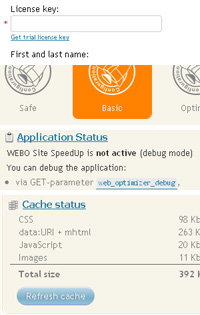
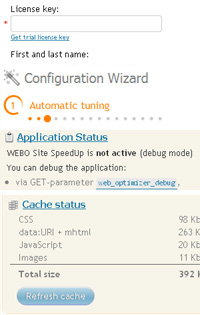
Updated splash-screen blocks for Configuration Wizard

Changed region(s): [[0.0, 0.2, 0.81, 0.4], [0.84, 0.2, 1.0, 0.3714]]

diff --git a/libs/php/lang/ru.php b/libs/php/lang/ru.php
@@ -902,11 +902,8 @@ define('_WEBO_HELP_CLOSE', 'Закрыть');
 define('_WEBO_HELP_FIRSTTIME', 'Используете приложение впервые?');
 define('_WEBO_HELP_LICENSEKEY', 'На странице');
 define('_WEBO_HELP_LICENSEKEY2', 'зарегистрируйте ваш лицензионный ключ или получите SaaS-ключ, открывающий все возможности Полной версии WEBO Site SpeedUp. Вы можете пропустить этот шаг, если хотите использовать некоммерческую версию WEBO Site SpeedUp.');
-define('_WEBO_HELP_TUNING', 'Подберите наиболее эффективную конфигурацию для вашего сайта или создайте собственную конфигурацию на странице');
-define('_WEBO_HELP_TUNING2', '. Не забудьте обновить кэш, чтобы изменения конфигурации вступили в силу. Всплывающие подсказки около каждой настройки помогут лучше понять функционал продукта.');
-define('_WEBO_HELP_CONTROLPANEL', 'Откройте страницу');
-define('_WEBO_HELP_CONTROLPANEL2', 'и проверьте работу WEBO Site SpeedUp в режиме отладки. Если внешний вид сайта и логика его работы в порядке, включите рабочий режим. В противном случае необходимо продолжить настройку на странице');
-define('_WEBO_HELP_CONTROLPANEL3', '. Если в ходе работы с WEBO Site SpeedUp у вас возникнут какие-то вопросы, обратитесь к');
+define('_WEBO_HELP_TUNING', 'Создайте наиболее подходящую конфигурацию для вашего сайта, используя <a href="#wss_wizard" class="wssJ">Мастер настройки</a>. Всего несколько минут, и сайт будет ускорен. Добиться максимального ускорения вы можете вручную, на странице <a href="#wss_options" class="wssJ">Настройка</a>, либо заказав ускорение в компании WEBO Software.');
+define('_WEBO_HELP_CONTROLPANEL', 'Откройте страницу <a href="#wss_dashboard" class="wssJ">Панель управления</a> и узнайте больше о вашем сайте. Настраивая WEBO Site SpeedUp, используйте Режим отладки для того, чтобы проверить, что внешний вид сайта и логика его работы в порядке. Если в ходе работы с WEBO Site SpeedUp у вас возникнут какие-то вопросы, обратитесь к <a href="http://code.google.com/p/web-optimizator/w/list" class="wssJ wssJ0">пользовательской документации</a> или <a href="http://www.webogroup.com/home/support/" class="wssJ wssJ0">известным проблемам</a>.');
 define('_WEBO_HELP_LINK1', 'Официальный сайт WEBO Software');
 define('_WEBO_HELP_LINK2', 'База знаний');
 define('_WEBO_HELP_LINK3', 'Известные проблемы');

diff --git a/libs/php/lang/ua.php b/libs/php/lang/ua.php
@@ -886,11 +886,8 @@ define('_WEBO_HELP_CLOSE', 'Закрыть');
 define('_WEBO_HELP_FIRSTTIME', 'Используете приложение впервые?');
 define('_WEBO_HELP_LICENSEKEY', 'На странице');
 define('_WEBO_HELP_LICENSEKEY2', 'зарегистрируйте ваш лицензионный ключ или получите SaaS-ключ, открывающий все возможности Полной версии WEBO Site SpeedUp. Вы можете пропустить этот шаг, если хотите использовать некоммерческую версию WEBO Site SpeedUp.');
-define('_WEBO_HELP_TUNING', 'Подберите наиболее эффективную конфигурацию для вашего сайта или создайте собственную конфигурацию на странице');
-define('_WEBO_HELP_TUNING2', '. Не забудьте обновить кэш, чтобы изменения конфигурации вступили в силу. Всплывающие подсказки около каждой настройки помогут лучше понять функционал продукта.');
-define('_WEBO_HELP_CONTROLPANEL', 'Откройте страницу');
-define('_WEBO_HELP_CONTROLPANEL2', 'и проверьте работу WEBO Site SpeedUp в режиме отладки. Если внешний вид сайта и логика его работы в порядке, включите рабочий режим. В противном случае необходимо продолжить настройку на странице');
-define('_WEBO_HELP_CONTROLPANEL3', '. Если в ходе работы с WEBO Site SpeedUp у вас возникнут какие-то вопросы, обратитесь к');
+define('_WEBO_HELP_TUNING', 'Создайте наиболее подходящую конфигурацию для вашего сайта, используя <a href="#wss_wizard" class="wssJ">Мастер настройки</a>. Всего несколько минут, и сайт будет ускорен. Добиться максимального ускорения вы можете вручную, на странице <a href="#wss_options" class="wssJ">Настройка</a>, либо заказав ускорение в компании WEBO Software.');
+define('_WEBO_HELP_CONTROLPANEL', 'Откройте страницу <a href="#wss_dashboard" class="wssJ">Панель управления</a> и узнайте больше о вашем сайте. Настраивая WEBO Site SpeedUp, используйте Режим отладки для того, чтобы проверить, что внешний вид сайта и логика его работы в порядке. Если в ходе работы с WEBO Site SpeedUp у вас возникнут какие-то вопросы, обратитесь к <a href="http://code.google.com/p/web-optimizator/w/list" class="wssJ wssJ0">пользовательской документации</a> или <a href="http://www.webogroup.com/home/support/" class="wssJ wssJ0">известным проблемам</a>.');
 define('_WEBO_HELP_LINK1', 'Официальный сайт WEBO Software');
 define('_WEBO_HELP_LINK2', 'База знаний');
 define('_WEBO_HELP_LINK3', 'Известные проблемы');

diff --git a/libs/php/lang/ur.php b/libs/php/lang/ur.php
@@ -886,11 +886,8 @@ define('_WEBO_HELP_CLOSE', 'بند');
 define('_WEBO_HELP_FIRSTTIME', 'کیا آپ پہلی دفعہ یہاں آئے ہیں؟');
 define('_WEBO_HELP_LICENSEKEY', 'اپنی لائسنس کلید کو رجسٹر کریں یا ٹرائل کلید حاصل کریں۔');
 define('_WEBO_HELP_LICENSEKEY2', 'صفحہ۔ یہ آپ کو ویبو سائٹ اسپیڈ اپ کو بھرپور کارکردگی کے ساتھ استعمال کی اجازت دیتا ہے۔ آپ اس اقدام کو چھوڑ سکتے ہیں اگر آپ ویبو سائٹ اسپیڈ اپ کا کمیونٹی ایڈیشن استعمال کر رہے ہوں۔');
-define('_WEBO_HELP_TUNING', 'درست کنفیگریشن منتخب کریں (محفوظ ، بنیادی، آپٹمل یا ایکسٹریم میں سے) یا اپنی نئی کنفیگریشن تخلیق کریں۔');
-define('_WEBO_HELP_TUNING2', 'صفحہ۔ اگر آپ نے کنفیگریشن میں تبدیلی کی ہے تو کیشے کو ریفریش کرنا نہ بھولیں۔ ہر آپشن کے قریب دئے گئے اشارے آپ کو اس  آپشن کو سمجھنے میں مدد دیں گے۔');
-define('_WEBO_HELP_CONTROLPANEL', 'کھلا');
-define('_WEBO_HELP_CONTROLPANEL2', 'صفحہ اور ویبو سائٹ اسپیڈ اپ فنکشن چیک اس وقت ڈی بگ موڈ میں ہے۔ اگر آپ کی ویب سائٹ درست ہے تو بس صرف ویبو سائٹ اسپیڈ اپ کو فعال کر دیں۔ ورنہ ٹیوننگ جاری رکھیں۔');
-define('_WEBO_HELP_CONTROLPANEL3', 'صفحہ۔ اگر آپ کو ویبو سائٹ اسپیڈ اپ میں کسی قسم کا مسئلہ ہو تو ازراہ کرم یہاں جائیں۔');
+define('_WEBO_HELP_TUNING', 'Tune WEBO Site SpeedUp for your website using <a href="#wss_wizard" class="wssJ">Configuration wizard</a>. Just a few minutes and you will get a faster website. To get the maximum speedup you can tune the product manually on the <a href="#wss_options" class="wssJ">Settings</a> page, or you can order a qualified help of WEBO Software specialists.');
+define('_WEBO_HELP_CONTROLPANEL', 'Open the <a href="#wss_dashboard" class="wssJ">Control Panel</a> page and learn more about your website. While tuning WEBO Site SpeedUp, use Debug Mode to make sure that your website looks and behaves fine. If you will face any issues with WEBO Site SpeedUp, please refer to <a href="http://code.google.com/p/web-optimizator/w/list" class="wssJ wssJ0">user documentation</a> or <a href="http://www.webogroup.com/home/support/" class="wssJ wssJ0">known issues</a>.');
 define('_WEBO_HELP_LINK1', 'ویبو سافٹ ویئر ویب سائٹ');
 define('_WEBO_HELP_LINK2', 'علم بیس');
 define('_WEBO_HELP_LINK3', 'معلوم مسائل');

diff --git a/view/admin_container.php b/view/admin_container.php
@@ -157,7 +157,13 @@ if (!$ajax) {
 		echo _WEBO_HELP_WELCOME;
 ?>!</h1><h2 class="wssB1"><?php
 		echo _WEBO_HELP_FIRSTTIME;
-?></h2><ol class="wssO7"><li class="wssO8 wssO21"><a class="wssO22" href="#wss_account"><span class="wssO29<?php
+?></h2><ol class="wssO7"><li class="wssO8 wssO24"><a class="wssO22" href="#wss_wizard"><span class="wssO29<?php
+		echo $screens_lang;
+?> wssO25" title="<?php
+		echo _WEBO_WIZARD_TITLE;
+?>"></span></a><?php
+		echo _WEBO_HELP_TUNING;
+?></li><li class="wssO8 wssO21"><a class="wssO22" href="#wss_account"><span class="wssO29<?php
 		echo $screens_lang;
 ?> wssO23" title="<?php
 		echo _WEBO_DASHBOARD_ACCOUNT;
@@ -167,37 +173,13 @@ if (!$ajax) {
 		echo _WEBO_DASHBOARD_ACCOUNT;
 ?></a> <?php
 		echo _WEBO_HELP_LICENSEKEY2;
-?></li><li class="wssO8 wssO24"><a class="wssO22" href="#wss_options"><span class="wssO29<?php
-		echo $screens_lang;
-?> wssO25" title="<?php
-		echo _WEBO_SPLASH2_OPTIONS;
-?>"></span></a><?php
-		echo _WEBO_HELP_TUNING;
-?> <a href="#wss_options" class="wssJ"><?php
-		echo _WEBO_SPLASH2_OPTIONS;
-?></a> <?php
-		echo _WEBO_HELP_TUNING2;
 ?></li><li class="wssO8 wssO26"><a class="wssO22" href="#wss_dashboard"><span class="wssO29<?php
 		echo $screens_lang;
 ?> wssO27" title="<?php
 		echo _WEBO_SPLASH2_CONTROLPANEL;
 ?>"></span></a><?php
 		echo _WEBO_HELP_CONTROLPANEL;
-?> <a href="#wss_dashboard" class="wssJ"><?php
-		echo _WEBO_SPLASH2_CONTROLPANEL;
-?></a> <?php
-		echo _WEBO_HELP_CONTROLPANEL2;
-?> <a href="#wss_options" class="wssJ"><?php
-		echo _WEBO_SPLASH2_OPTIONS;
-?></a> <?php
-		echo _WEBO_HELP_CONTROLPANEL3;
-?> <a href="http://code.google.com/p/web-optimizator/w/list" class="wssJ wssJ0"><?php
-		echo _WEBO_DASHBOARD_CRITICAL_DOCS;
-?></a> <?php
-		echo _WEBO_DASHBOARD_CRITICAL_OR;
-?> <a href="http://www.webogroup.com/home/support/" class="wssJ wssJ0"><?php
-		echo _WEBO_DASHBOARD_CRITICAL_ISSUES;
-?></a>.</li></ol><div class="wss_r1"><div class="wssN wssN4"><h3 class="wssB2"><?php
+?></li></ol><div class="wss_r1"><div class="wssN wssN4"><h3 class="wssB2"><?php
 		echo _WEBO_ABOUT_SUPPORT;
 ?></h3><ul class="wssO7"><li class="wssO8"><a href="http://www.webogroup.com/" class="wssJ wssJ0"><?php
 		echo _WEBO_HELP_LINK1;

diff --git a/libs/php/lang/it.php b/libs/php/lang/it.php
@@ -902,11 +902,8 @@ define('_WEBO_HELP_CLOSE', 'Chiudi');
 define('_WEBO_HELP_FIRSTTIME', 'E\' la prima volta che sei qui?');
 define('_WEBO_HELP_LICENSEKEY', 'Registra la tua chiave di licenza o attiva una SaaS key');
 define('_WEBO_HELP_LICENSEKEY2', 'pagina. Questo ti permetterà di usare WEBO Site SpeedUp alla massima potenza. Puoi saltare questo passaggio se pensi di usare l\'Edizione Community WEBO Site SpeedUp.');
-define('_WEBO_HELP_TUNING', 'Scegli la configurazione corretta (tra Sicura, Base, Ottimal, o Estrema) oppure attiva la tua personale');
-define('_WEBO_HELP_TUNING2', 'pagina. Non dimenticare che per aggiornare la cache devi modificare la configurazione. Consigli vicino ogni opzione ti aiuteranno a capire di cosa parlo.');
-define('_WEBO_HELP_CONTROLPANEL', 'Apri');
-define('_WEBO_HELP_CONTROLPANEL2', 'pagina e controlla la funzionalità di WEBO Site SpeedUp in debug mode. Se il tuo sito è OK &mdash; semplicemente abilita WEBO Site SpeedUp. altrimenti sistema e riprova');
-define('_WEBO_HELP_CONTROLPANEL3', 'pagina. se incontri qualche problema con WEBO Site SpeedUp &mdash; per favore scrivi a');
+define('_WEBO_HELP_TUNING', 'Tune WEBO Site SpeedUp for your website using <a href="#wss_wizard" class="wssJ">Configuration wizard</a>. Just a few minutes and you will get a faster website. To get the maximum speedup you can tune the product manually on the <a href="#wss_options" class="wssJ">Settings</a> page, or you can order a qualified help of WEBO Software specialists.');
+define('_WEBO_HELP_CONTROLPANEL', 'Open the <a href="#wss_dashboard" class="wssJ">Control Panel</a> page and learn more about your website. While tuning WEBO Site SpeedUp, use Debug Mode to make sure that your website looks and behaves fine. If you will face any issues with WEBO Site SpeedUp, please refer to <a href="http://code.google.com/p/web-optimizator/w/list" class="wssJ wssJ0">user documentation</a> or <a href="http://www.webogroup.com/home/support/" class="wssJ wssJ0">known issues</a>.');
 define('_WEBO_HELP_LINK1', 'WEBO Software Website');
 define('_WEBO_HELP_LINK2', 'Knowledge Base');
 define('_WEBO_HELP_LINK3', 'Problemi conosciuti');

diff --git a/libs/php/lang/de.php b/libs/php/lang/de.php
@@ -903,11 +903,8 @@ define('_WEBO_HELP_CLOSE', 'Close');
 define('_WEBO_HELP_FIRSTTIME', 'Are you first time here?');
 define('_WEBO_HELP_LICENSEKEY', 'Register your license key or get a SaaS key on');
 define('_WEBO_HELP_LICENSEKEY2', 'page. This allows you to use WEBO Site SpeedUp at full throttle. You can skip this step if you are going to use WEBO Site SpeedUp Community Edition.');
-define('_WEBO_HELP_TUNING', 'Choose the right configuration (from Safe, Basic, Optimal, or Extreme) or create your own one on');
-define('_WEBO_HELP_TUNING2', 'page. Don\'t forget to refresh cache if you change configuration. Hints near every option will help you to understand what it is about.');
-define('_WEBO_HELP_CONTROLPANEL', 'Open');
-define('_WEBO_HELP_CONTROLPANEL2', 'page and check WEBO Site SpeedUp functionality in debug mode. If your website is OK &mdash; just enable WEBO Site SpeedUp. Otherwise continue tuning on');
-define('_WEBO_HELP_CONTROLPANEL3', 'page. If you face any issues with WEBO Site SpeedUp &mdash; please refer to');
+define('_WEBO_HELP_TUNING', 'Tune WEBO Site SpeedUp for your website using <a href="#wss_wizard" class="wssJ">Configuration wizard</a>. Just a few minutes and you will get a faster website. To get the maximum speedup you can tune the product manually on the <a href="#wss_options" class="wssJ">Settings</a> page, or you can order a qualified help of WEBO Software specialists.');
+define('_WEBO_HELP_CONTROLPANEL', 'Open the <a href="#wss_dashboard" class="wssJ">Control Panel</a> page and learn more about your website. While tuning WEBO Site SpeedUp, use Debug Mode to make sure that your website looks and behaves fine. If you will face any issues with WEBO Site SpeedUp, please refer to <a href="http://code.google.com/p/web-optimizator/w/list" class="wssJ wssJ0">user documentation</a> or <a href="http://www.webogroup.com/home/support/" class="wssJ wssJ0">known issues</a>.');
 define('_WEBO_HELP_LINK1', 'WEBO Software Website');
 define('_WEBO_HELP_LINK2', 'Knowledge Base');
 define('_WEBO_HELP_LINK3', 'Known Issues');

diff --git a/libs/php/lang/en.php b/libs/php/lang/en.php
@@ -900,11 +900,8 @@ define('_WEBO_HELP_CLOSE', 'Close');
 define('_WEBO_HELP_FIRSTTIME', 'Are you first time here?');
 define('_WEBO_HELP_LICENSEKEY', 'Register your license key or get a SaaS key on');
 define('_WEBO_HELP_LICENSEKEY2', 'page. This allows you to use WEBO Site SpeedUp at full throttle. You can skip this step if you are going to use WEBO Site SpeedUp Community Edition.');
-define('_WEBO_HELP_TUNING', 'Choose the right configuration (from Safe, Basic, Optimal, or Extreme) or create your own one on');
-define('_WEBO_HELP_TUNING2', 'page. Don\'t forget to refresh cache if you change configuration. Hints near every option will help you to understand what it is about.');
-define('_WEBO_HELP_CONTROLPANEL', 'Open');
-define('_WEBO_HELP_CONTROLPANEL2', 'page and check WEBO Site SpeedUp functionality in debug mode. If your website is OK &mdash; just enable WEBO Site SpeedUp. Otherwise continue tuning on');
-define('_WEBO_HELP_CONTROLPANEL3', 'page. If you face any issues with WEBO Site SpeedUp &mdash; please refer to');
+define('_WEBO_HELP_TUNING', 'Tune WEBO Site SpeedUp for your website using <a href="#wss_wizard" class="wssJ">Configuration wizard</a>. Just a few minutes and you will get a faster website. To get the maximum speedup you can tune the product manually on the <a href="#wss_options" class="wssJ">Settings</a> page, or you can order a qualified help of WEBO Software specialists.');
+define('_WEBO_HELP_CONTROLPANEL', 'Open the <a href="#wss_dashboard" class="wssJ">Control Panel</a> page and learn more about your website. While tuning WEBO Site SpeedUp, use Debug Mode to make sure that your website looks and behaves fine. If you will face any issues with WEBO Site SpeedUp, please refer to <a href="http://code.google.com/p/web-optimizator/w/list" class="wssJ wssJ0">user documentation</a> or <a href="http://www.webogroup.com/home/support/" class="wssJ wssJ0">known issues</a>.');
 define('_WEBO_HELP_LINK1', 'WEBO Software Website');
 define('_WEBO_HELP_LINK2', 'Knowledge Base');
 define('_WEBO_HELP_LINK3', 'Known Issues');

diff --git a/libs/php/lang/es.php b/libs/php/lang/es.php
@@ -904,11 +904,8 @@ define('_WEBO_HELP_CLOSE', 'Close');
 define('_WEBO_HELP_FIRSTTIME', 'Are you first time here?');
 define('_WEBO_HELP_LICENSEKEY', 'Register your license key or get a SaaS key on');
 define('_WEBO_HELP_LICENSEKEY2', 'page. This allows you to use WEBO Site SpeedUp at full throttle. You can skip this step if you are going to use WEBO Site SpeedUp Community Edition.');
-define('_WEBO_HELP_TUNING', 'Choose the right configuration (from Safe, Basic, Optimal, or Extreme) or create your own one on');
-define('_WEBO_HELP_TUNING2', 'page. Don\'t forget to refresh cache if you change configuration. Hints near every option will help you to understand what it is about.');
-define('_WEBO_HELP_CONTROLPANEL', 'Open');
-define('_WEBO_HELP_CONTROLPANEL2', 'page and check WEBO Site SpeedUp functionality in debug mode. If your website is OK &mdash; just enable WEBO Site SpeedUp. Otherwise continue tuning on');
-define('_WEBO_HELP_CONTROLPANEL3', 'page. If you face any issues with WEBO Site SpeedUp &mdash; please refer to');
+define('_WEBO_HELP_TUNING', 'Tune WEBO Site SpeedUp for your website using <a href="#wss_wizard" class="wssJ">Configuration wizard</a>. Just a few minutes and you will get a faster website. To get the maximum speedup you can tune the product manually on the <a href="#wss_options" class="wssJ">Settings</a> page, or you can order a qualified help of WEBO Software specialists.');
+define('_WEBO_HELP_CONTROLPANEL', 'Open the <a href="#wss_dashboard" class="wssJ">Control Panel</a> page and learn more about your website. While tuning WEBO Site SpeedUp, use Debug Mode to make sure that your website looks and behaves fine. If you will face any issues with WEBO Site SpeedUp, please refer to <a href="http://code.google.com/p/web-optimizator/w/list" class="wssJ wssJ0">user documentation</a> or <a href="http://www.webogroup.com/home/support/" class="wssJ wssJ0">known issues</a>.');
 define('_WEBO_HELP_LINK1', 'WEBO Software Website');
 define('_WEBO_HELP_LINK2', 'Knowledge Base');
 define('_WEBO_HELP_LINK3', 'Known Issues');

diff --git a/libs/php/lang/fr.php b/libs/php/lang/fr.php
@@ -902,11 +902,8 @@ define('_WEBO_HELP_CLOSE', 'Close');
 define('_WEBO_HELP_FIRSTTIME', 'Are you first time here?');
 define('_WEBO_HELP_LICENSEKEY', 'Register your license key or get a SaaS key on');
 define('_WEBO_HELP_LICENSEKEY2', 'page. This allows you to use WEBO Site SpeedUp at full throttle. You can skip this step if you are going to use WEBO Site SpeedUp Community Edition.');
-define('_WEBO_HELP_TUNING', 'Choose the right configuration (from Safe, Basic, Optimal, or Extreme) or create your own one on');
-define('_WEBO_HELP_TUNING2', 'page. Don\'t forget to refresh cache if you change configuration. Hints near every option will help you to understand what it is about.');
-define('_WEBO_HELP_CONTROLPANEL', 'Open');
-define('_WEBO_HELP_CONTROLPANEL2', 'page and check WEBO Site SpeedUp functionality in debug mode. If your website is OK &mdash; just enable WEBO Site SpeedUp. Otherwise continue tuning on');
-define('_WEBO_HELP_CONTROLPANEL3', 'page. If you face any issues with WEBO Site SpeedUp &mdash; please refer to');
+define('_WEBO_HELP_TUNING', 'Tune WEBO Site SpeedUp for your website using <a href="#wss_wizard" class="wssJ">Configuration wizard</a>. Just a few minutes and you will get a faster website. To get the maximum speedup you can tune the product manually on the <a href="#wss_options" class="wssJ">Settings</a> page, or you can order a qualified help of WEBO Software specialists.');
+define('_WEBO_HELP_CONTROLPANEL', 'Open the <a href="#wss_dashboard" class="wssJ">Control Panel</a> page and learn more about your website. While tuning WEBO Site SpeedUp, use Debug Mode to make sure that your website looks and behaves fine. If you will face any issues with WEBO Site SpeedUp, please refer to <a href="http://code.google.com/p/web-optimizator/w/list" class="wssJ wssJ0">user documentation</a> or <a href="http://www.webogroup.com/home/support/" class="wssJ wssJ0">known issues</a>.');
 define('_WEBO_HELP_LINK1', 'WEBO Software Website');
 define('_WEBO_HELP_LINK2', 'Knowledge Base');
 define('_WEBO_HELP_LINK3', 'Known Issues');
